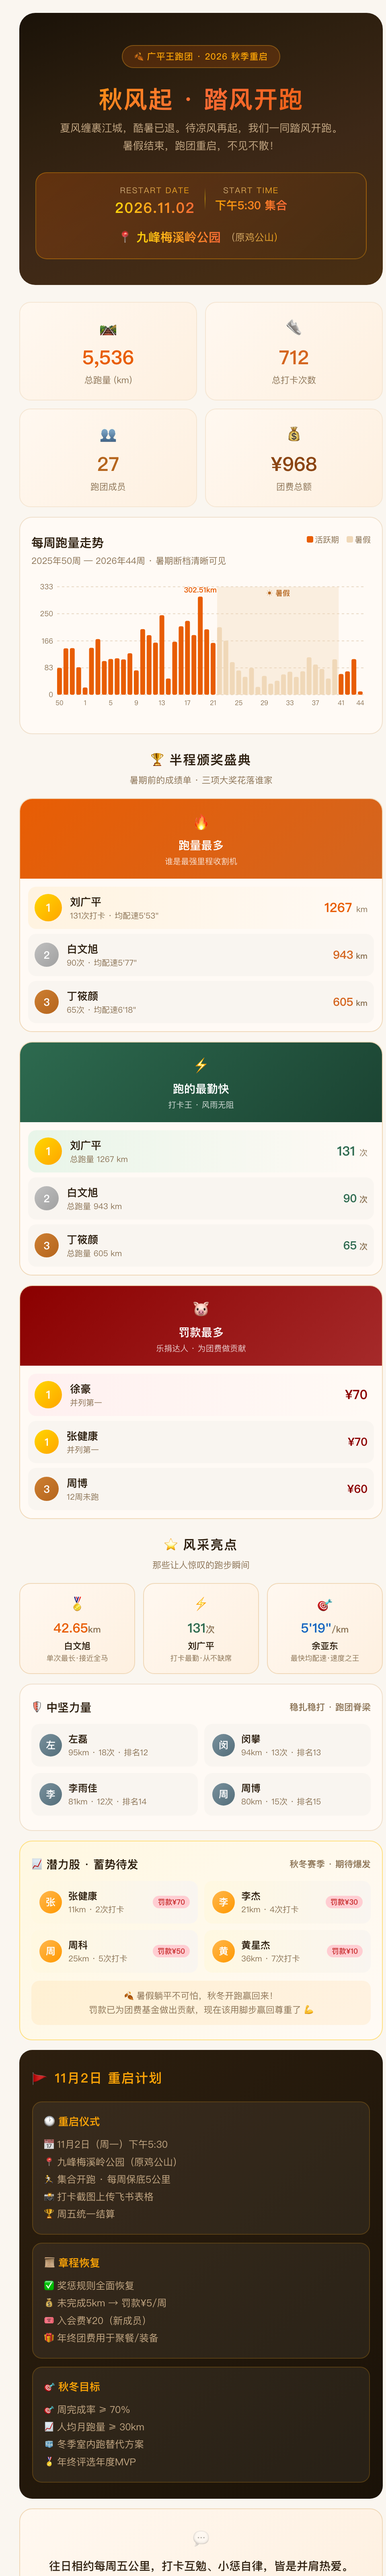
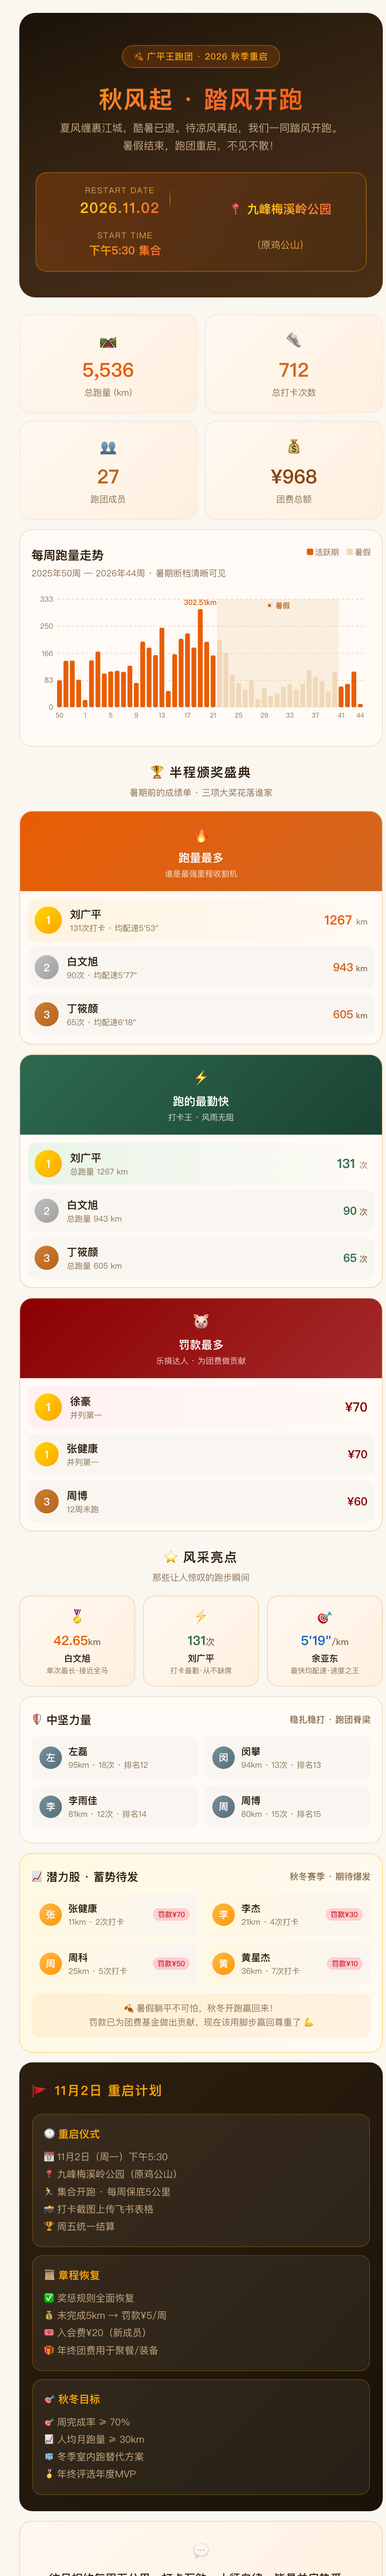
Hero信息卡改为inline-block自适应宽度，缩小左右内边距

Changed region(s): [[0.0625, 0.0625, 1.0, 1.0], [0.75, 0.625, 0.9375, 0.6875], [0.9062, 0.1875, 0.9375, 0.2188]]

diff --git a/index.html b/index.html
@@ -15,7 +15,7 @@ body{font-family:-apple-system,'PingFang SC','Noto Sans SC','Segoe UI',sans-seri
 .hero-badge{display:inline-block;padding:5px 14px;border-radius:999px;background:rgba(232,93,4,0.2);border:1px solid rgba(255,182,39,0.3);margin-bottom:20px;font-size:11px;letter-spacing:0.5px;color:#FAA307;font-weight:500;}
 .hero h1{font-size:30px;font-weight:700;margin:0 0 6px;letter-spacing:1px;line-height:1.25;background:linear-gradient(135deg,#FAA307,#FF6B35,#E85D04);-webkit-background-clip:text;-webkit-text-fill-color:transparent;background-clip:text;color:#FAA307;}
 .hero p{font-size:13px;color:#c4a884;margin:0 0 22px;line-height:1.7;}
-.hero-info{display:block;padding:14px 16px;border-radius:14px;background:linear-gradient(135deg,rgba(232,93,4,0.25),rgba(74,47,18,0.4));border:1px solid rgba(250,163,7,0.35);text-align:center;overflow:hidden;}
+.hero-info{display:inline-block;display:-webkit-inline-flex;padding:14px 12px;border-radius:14px;background:linear-gradient(135deg,rgba(232,93,4,0.25),rgba(74,47,18,0.4));border:1px solid rgba(250,163,7,0.35);text-align:center;overflow:hidden;}
 .hero-info-row{display:flex;display:-webkit-flex;align-items:flex-start;-webkit-align-items:flex-start;justify-content:center;-webkit-justify-content:center;gap:12px;flex-wrap:wrap;-webkit-flex-wrap:wrap;}
 .hero-info-item{text-align:center;}
 .hero-date-label{font-size:10px;letter-spacing:1px;white-space:nowrap;background:linear-gradient(90deg,#c4a884,#FAA307);-webkit-background-clip:text;-webkit-text-fill-color:transparent;background-clip:text;color:#c4a884;}

diff --git a/广平王跑团-秋季重启画报.html b/广平王跑团-秋季重启画报.html
@@ -15,7 +15,7 @@ body{font-family:-apple-system,'PingFang SC','Noto Sans SC','Segoe UI',sans-seri
 .hero-badge{display:inline-block;padding:5px 14px;border-radius:999px;background:rgba(232,93,4,0.2);border:1px solid rgba(255,182,39,0.3);margin-bottom:20px;font-size:11px;letter-spacing:0.5px;color:#FAA307;font-weight:500;}
 .hero h1{font-size:30px;font-weight:700;margin:0 0 6px;letter-spacing:1px;line-height:1.25;background:linear-gradient(135deg,#FAA307,#FF6B35,#E85D04);-webkit-background-clip:text;-webkit-text-fill-color:transparent;background-clip:text;color:#FAA307;}
 .hero p{font-size:13px;color:#c4a884;margin:0 0 22px;line-height:1.7;}
-.hero-info{display:block;padding:14px 16px;border-radius:14px;background:linear-gradient(135deg,rgba(232,93,4,0.25),rgba(74,47,18,0.4));border:1px solid rgba(250,163,7,0.35);text-align:center;overflow:hidden;}
+.hero-info{display:inline-block;display:-webkit-inline-flex;padding:14px 12px;border-radius:14px;background:linear-gradient(135deg,rgba(232,93,4,0.25),rgba(74,47,18,0.4));border:1px solid rgba(250,163,7,0.35);text-align:center;overflow:hidden;}
 .hero-info-row{display:flex;display:-webkit-flex;align-items:flex-start;-webkit-align-items:flex-start;justify-content:center;-webkit-justify-content:center;gap:12px;flex-wrap:wrap;-webkit-flex-wrap:wrap;}
 .hero-info-item{text-align:center;}
 .hero-date-label{font-size:10px;letter-spacing:1px;white-space:nowrap;background:linear-gradient(90deg,#c4a884,#FAA307);-webkit-background-clip:text;-webkit-text-fill-color:transparent;background-clip:text;color:#c4a884;}
